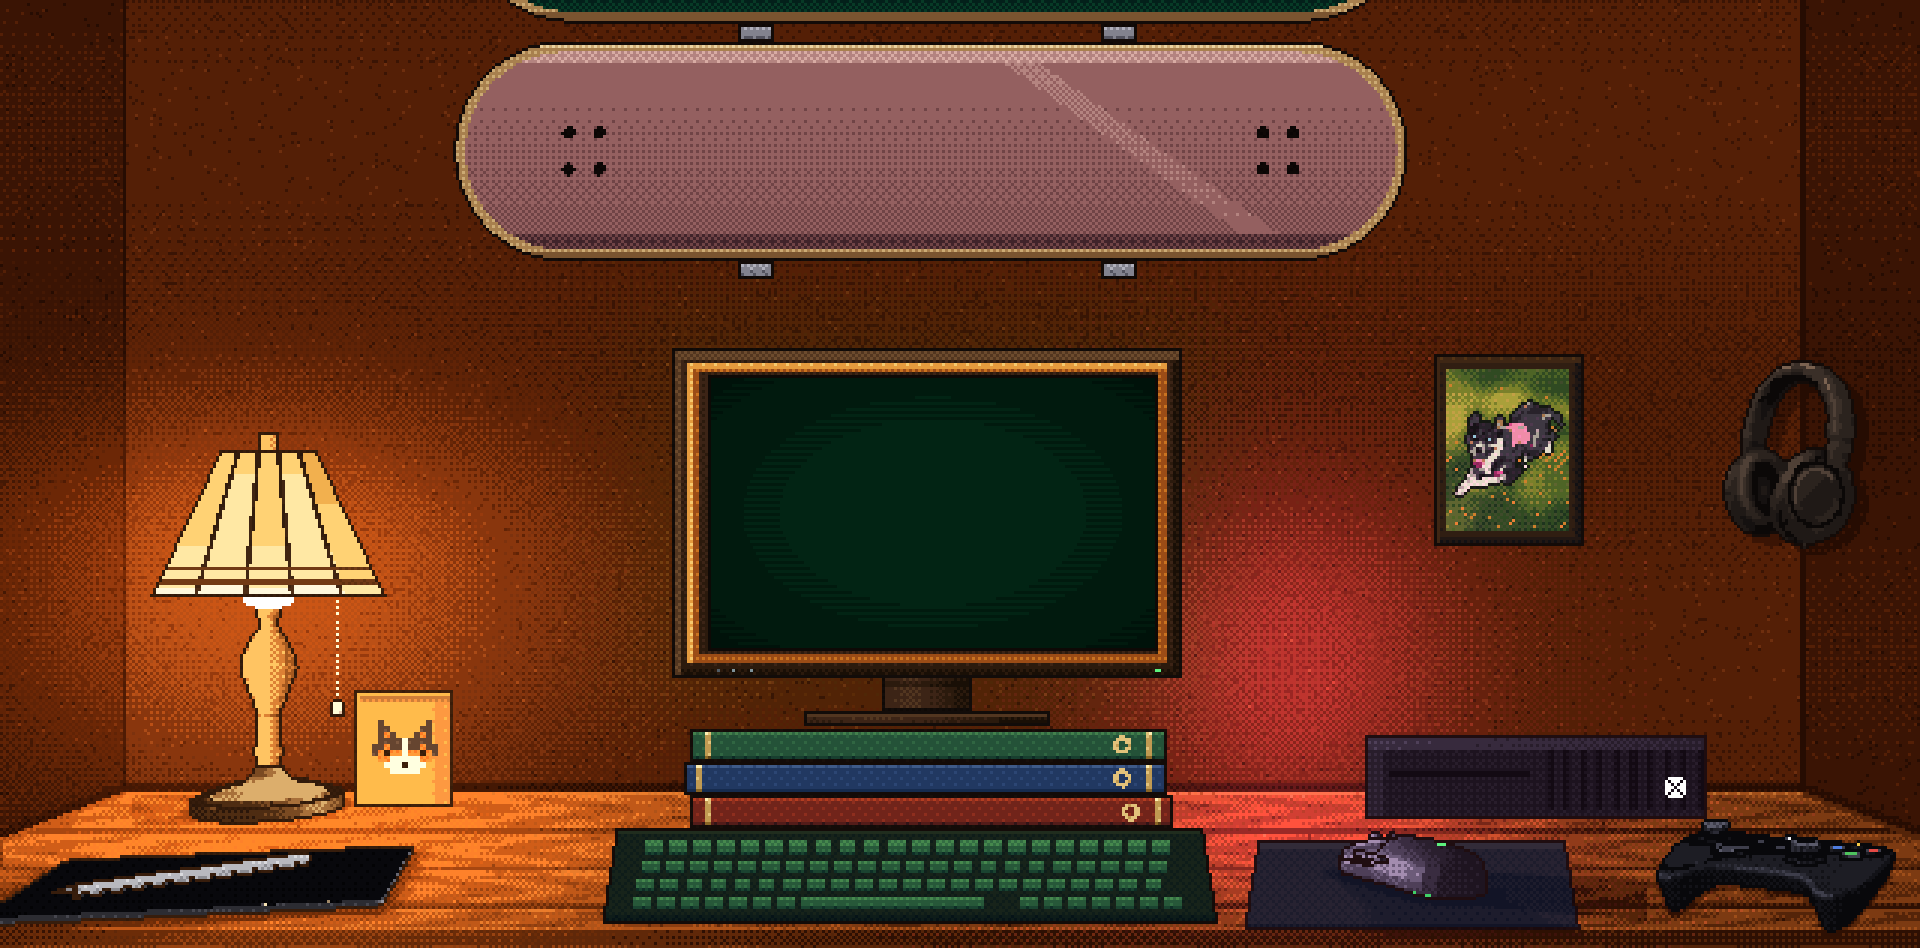
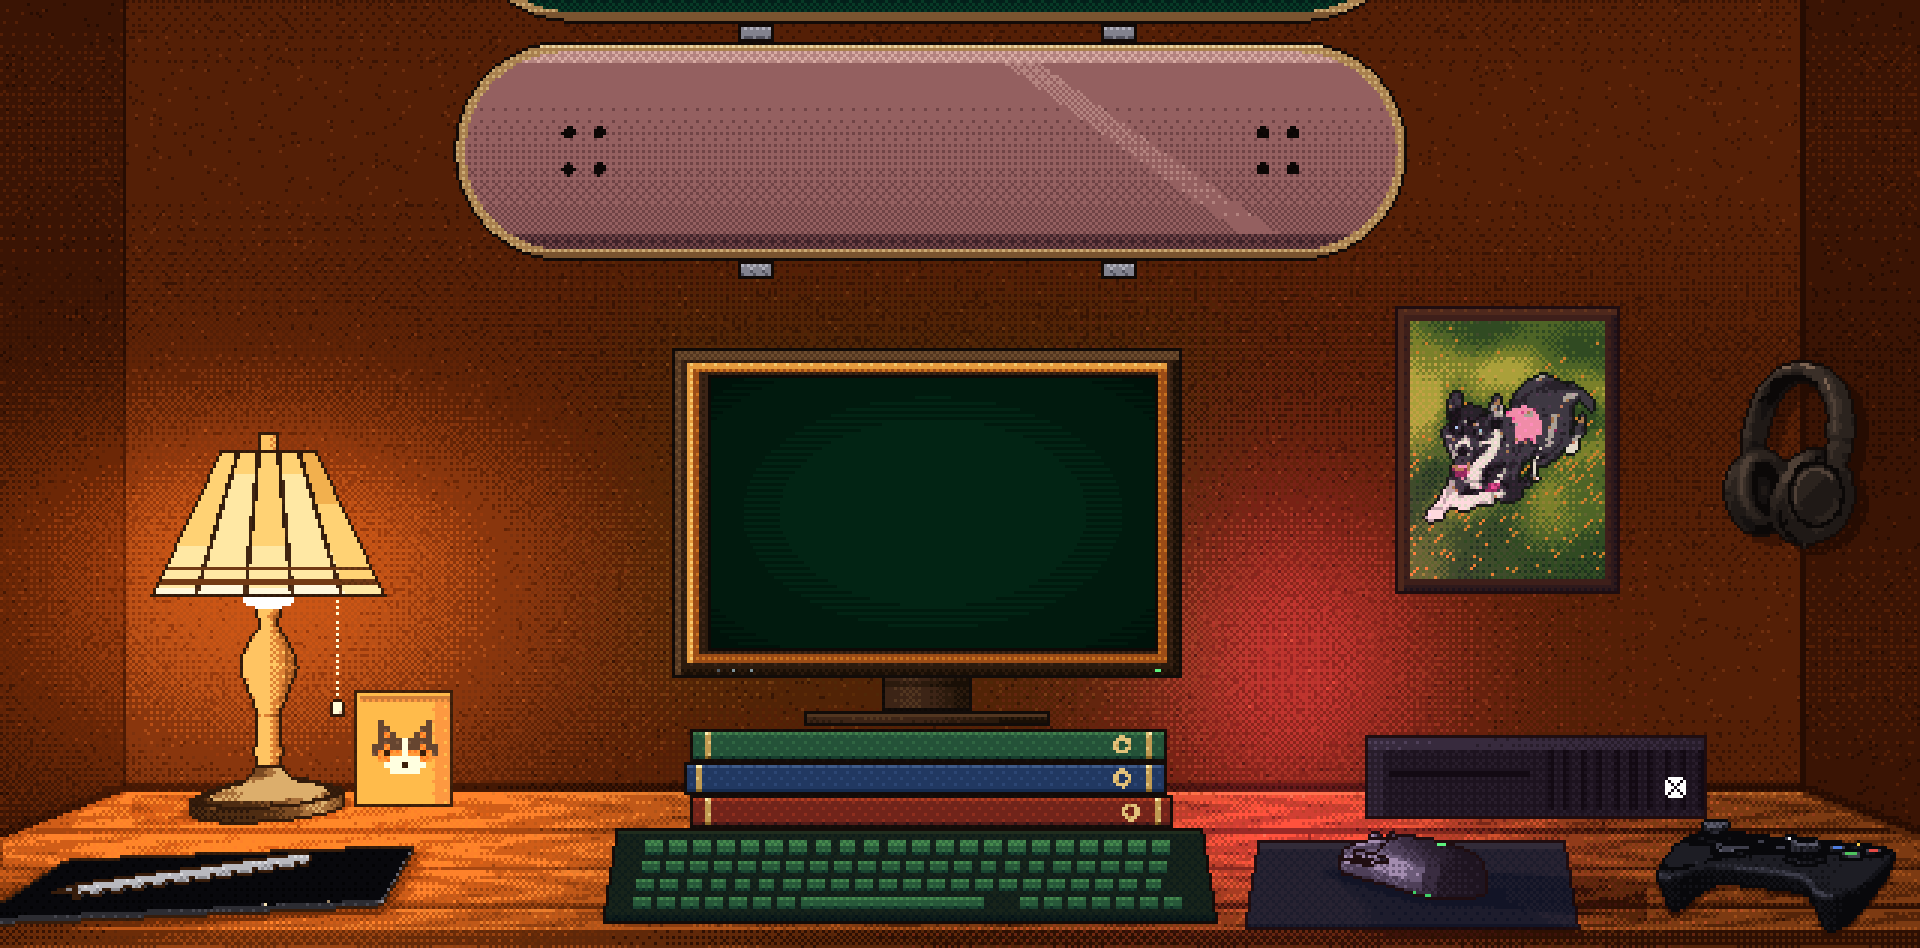
Phone view: bigger deck lettering, a bigger picture of Tessie, and notes you can read
On an upright phone the decks get their own lettering: the school over two
lines and the degree over two, the email along the top deck's low edge, all
bigger and clear of the bolt holes. Tessie hangs in a bigger frame, drawn again
at 65 x 86 so she gains detail instead of just stretching. The sticky notes hang
half again as big from the same spot, their words a touch bolder. Desktop is
unchanged.

Changed region(s): [[0.7188, 0.3059, 0.8438, 0.6424]]

diff --git a/scripts/wall-picture.js b/scripts/wall-picture.js
@@ -57,4 +57,93 @@ const ROWS = [
   'hggggggegeeceeeeeneeeeeeeeeeeneeeeeceence',
   'ggggggeeeecececeeeeeeecececececececececec',
 ];
-module.exports = { PALETTE, ROWS };
+// The same picture drawn at 65 x 86, for the phones' bigger frame.
+const PHONE_ROWS = [
+  'hghggggegegegegegeeegeeeeeeeeeeegegegggggggggggggggegegegegegggeg',
+  'ghggggegegeeegeeeeeeeeeeeeeeeeeeeeeeegegegegggegegegegeeegegegege',
+  'hghggggggegegngegegeeeeeeeeeeeeeeegegegggggggggggegegegegegegegeg',
+  'ghghggggegegeeeeeeeeeeeeeeeeeeeeeeegegegegegegegegegeeeeeeeeeeege',
+  'hhhghghggggggggegegegeeeeeeegegegegegggggggggggegegegegegegegegeg',
+  'ghghghggggggggegegeeeeeeeeeeegegegegggegggegegegegeeeeeeeeeeeeeee',
+  'hhhhhghghghggggngegegegegegegegggggggggggggggegegegeeeeeeegeeegee',
+  'ghhhgnghggggggggegegeeegeeegegggggggggggggggegegeeeeeeeeeeeeeenee',
+  'hhhhhhhhhhhghghggggggggegggggggghghghghghggggggegegegeeeeeeegeeeg',
+  'hhhhhhhhhhghghggggggggegggggghghghghghghghggggegegeeeeeeeeeeeeeee',
+  'hhnhhhhhhhhhhhhghghggghghghghnhhhhhhhhhhhghggggggegeeegeeeeeeegee',
+  'hhhhhhhhhhnhghhhghghggghghghhhhhhhhhhhhhghghggggegegeeeeeeeeeeeee',
+  'mhmhmhhhmhhhmhhhhhhhhhhhhhhhmhmhmmmhmhmhmhhghggggggngegegegegegeg',
+  'hmhhhhhhhhhhhhhhhhhhhhhhhmhmhmhmmmhmhmhmhhhhghggggngegegegegegege',
+  'mhmhmhmhmhmhmhmhmhmhhhmhmhmmmmmmmmmmmmmhmhhhhgnggggggggggggggegeg',
+  'hmhmhhhhhhhmhhhhhhhhhhhmhmmmmmmmmmmmmmhmhhhhgnghggggggggggggegege',
+  'mmmhmhmhmhmhmhmhmhmhmhmmmmmmmmmmmmmmmmmmmhmhhhhghghghghghghghgggg',
+  'mmhmhmhmhmhhhmhhhhhhhmhmmmmmmmmmmmmmmmhmhmhaaaggghggghghghggghggg',
+  'mmmmmmmmmhmhmhmhhhmhmhmmmmmmmmmmmmmmmmmhmaallfaanghghghhhnhhhghgh',
+  'mmmmhmhmhmhhhhhhghhhhhhnhmmmhmmmmmmmhmhaaflkffffaaghghghghghghghg',
+  'mmmmmmmmmmmhmhhhhhhhmhmhmmmmmmmmmmmmmhaffffffdddddaaaaahhhhhhhhhh',
+  'mmmmmmmmmmhhnhghghghhhhmhmhmhmhmhmhmhaffffffddddddddbdfaghhhhhhhh',
+  'mmmmmmmmmmmhhhhghnhhhhmhmhmhmhmhmhmhafffffdddfddddddddddaahhhhmhm',
+  'mmmmmmmmmmhhghaaagghghhhhhhhhhhhhhhaffffdfdfddffdfffffffffahgnhhh',
+  'mmmmmmmmmmmhhadfdahghhhhmhhhaahhmhadffddffffffffffffllllfffanhhhm',
+  'mmmmmmmmmmhhhaffdaggghghhhgaffahhhaffddffffffffffffllllfdfffahghh',
+  'mmmmmmmmmmmhafdffagggghghghafkahhadddddfffffffffffflkffdaffffahhh',
+  'mmmmmmmmmmhhafdffanaagggggafkkahgadddfdfffffffffffffffdaeafffaghg',
+  'mmmmmmmmmmmhakfddaaddaaaggallflahadfdqqfffffffffffkffdaegeaffaggh',
+  'mmmmmmmmmmhhafdbbdddddddaaflkflaafqqqqqqqiffdffffffffdaeeeeafaegg',
+  'mmmmmmmmmhhgabbbbdddddddaaafllpaoqqqqoqklqfffffffffffdaeeaeeaeggg',
+  'mmmmmmmmhhhhabbbbddddddbbbfflllfqqqqqqlllqqfddfllkfffdaeafaeeeege',
+  'mmmmmmmmmhhgabbbbddbddbdddfdfdffffoqqqqqqqqffffklfffffanakaeeegeg',
+  'mmmmmmhmhhggeabbdflbbbfddfdbbbbfffqqqqqqqqqqfffklffffdbakkaeneege',
+  'mmmmmhmhhghgabbbddfbbklddfdbbbdffdflqqqqqqqqfffllffdfdaaffaneegeg',
+  'hmhmhhhhghgafbbjfbdddffddddbbbdffffqqqqqqqqqffkllffffdbffdaeeeege',
+  'mmmhmhmhhgafdbbddbdddbdjddddplfffffqqqqqqqqqfflliffffaaffdaegggng',
+  'hmhhhhhhghaffdbdbbdddbflfdflppkffffqqqqqqqqqffllffddfaafffagggngg',
+  'mhmhnhhhhgafllfdddlfdddbdfffppldfffqqqqqqqffffllfffffdfllagggghgh',
+  'hhhhhhnhgggaffkfflplffdbdflpppfbfffkqqifoqfffllfffdfffllagggggghg',
+  'mhhhhhhghghaffffppppffflppppppdfffdqffkfdqffffllffdfffkpahhghhhhh',
+  'hhghghghgggaflfplffpffflfdfpppdflfffddffdddffllffdfffpppahghhhghh',
+  'hhhhhghgggggalfldbdfldfddfppplffffdfdfffffdpffffdffappppahhhhhhhh',
+  'ghghggggggggaflfbbbdfddddlpppfffkfdfdffffbddfffdffaapppaghhhghnhg',
+  'hnhghggggggggallbbblfdbflppplffffffdffffddffdddfddagaaahhhhhhnhhn',
+  'ggggggngegegealbfffffbfpppppffffffffffdfaapbbdffdagnghghhhghnhgng',
+  'ggnggegeeegegeaffdffddpppppfffdfffdffddaalddffdaaghghnhhhghnhghgh',
+  'enegeeeeceeeeeaffffkdpppppfddddbfdddfaaeapfffdaggnghnhgnggghgnggn',
+  'nggegeeeeeeeeakkqqqklppppfbdbbbddddfdaenapaaaaggnghghgnghghgngggg',
+  'egneeecececeeaikkkikppplfbbbdddlfdffdanabpagggggghnggngggggnggggg',
+  'gegeecececeeeadiiiiqppppdbddddflffffaneabpaggghghghghghgggggggggg',
+  'neeececececeeadiiiipppplbbbddppffdfdaeaaflagggghggghggnggnggnggge',
+  'geeeeeeceeeeafddfqflppplfbdddflfddfdaadaakpahghghghghnhgngggggggg',
+  'eeeececececeallffflllllfbbdfppbdddddbdbdaaagghghghghgggnggggggegg',
+  'eeeeececeegeallfffffppplddioiodbbddddddfaghghhhhhghghghgggggngggg',
+  'eececececeeallkfffdbllpqffiooifdbdddddaaegghghhhghnhgggggggngggge',
+  'eeeeeeeegeaplllkffbbbbddbiiiiflfdddddagghghhhhhhhnhghghghggghgggg',
+  'eecececeegapllppfbbbbddpppplpppldddddaegghghhnhhnhghggggggggnggng',
+  'eeeeeeeenalplpppllppppppppplkplfdddddagghnhhhhhhhhhghghgggggggngg',
+  'cececeegeaplppppppppppppppplaafddddaagggghghhhhhghghggggggnggnggg',
+  'eeeegeggapplppppppppppplllplagaaaaaegggnhhhhhhhhhhhnhghghngghggnh',
+  'eeeeegeappppplppppppplaaaaaaggegegegegggghghhhhhhhghggggggggggggg',
+  'eeeegeallllplaaappppaahghggggegegegegggghghhhhhhhghghghggggggghgg',
+  'ceeeeappppplahhnaaaaghggggegeeeeeeegegggghghghhhghghggggggggggggg',
+  'eegegapppppahhhghnhghggggggegegegegngggghghhhhhhhhhghghghgggggggh',
+  'eeeealpppppaghggnggnggegegeeeeeneengenggghghghghgnghghggggggggggg',
+  'eegegallaaagggggggnggegeneeeeeneeegegggghghhhghhhghghghgggggnggng',
+  'eeegegaaggggegegegegeeeneeeeceeeeeegegggggghghghghghgggggggnegege',
+  'gngegggngggggggegegngeeeeeeeeeeeeegegggghghghghghghghgggggnggggeg',
+  'ngegegngggegegeeeeneeeeeeecececeeneeegegggggghggnhggggngggegegeee',
+  'gegegegggggggegeeeeeeeeneeeeeeeeeegngegggghggghggghggggggegegenee',
+  'egegegegegngeeeeeeeecenecececececeneeeegegggggggggggegeneeeeeeeee',
+  'nggngggggngegegegeeeeeeeeeeeeeeeeeeegegegggggngggggngggegegegeeee',
+  'ggegggegngegegeeeeeeeeceeeceeeceneeeeeegegegegegegegeneeeeeeeecee',
+  'gngggggggggggegeeeeeeeeeeneeeeeeeeeeeegegegegegggegegegeeeeeeeeee',
+  'ggggegegegegegeeeeeecececececeeeceeeeeeneeegeeegeeegeeeeeeeececec',
+  'hggggggggggngegegeeeeeeeeeeeeeeeeeeeeeeegegegegngegegeeeeeeeeeeee',
+  'gnggggenegngeneeeeceeeceeeceeeeeeeeeeeeeeeeeeeeeeneeeeeeeececncen',
+  'gggggggggegenegeeeeeeneeeeeeeeeeeeeeeeeeeeeeeeeeneeeeeeeeneeecene',
+  'ggggggggegegeenececececnceeeceeeeeeecececececeeeceeececececececec',
+  'hggggggggggegeeeeeeeeeeeeeeeeeeeeeeeeeeeeeeeeeeeeeeeeeeeeeeceeece',
+  'ggggggggggegeeeeeececnceeeceeeeeeeeeeececenececeeecececececececec',
+  'ggnggngggegegeeeeceenceeeeeeeeeeneeneeeeeceeeeeeeeeeeceeeceeecnee',
+  'gnggggggegegeeeecececececeeeceeeeenecececececenececececececececec',
+  'nggghggggggegeeeeeeceeeeeeeneeeeeeeeeeeeeeeeeeeeeeeeeeeceeeceeece',
+  'ggggggggngegeeeececececececeeeeeeeeeeecececececececececececececec',
+];
+module.exports = { PALETTE, ROWS, PHONE_ROWS };

diff --git a/components/cinema/CinemaScene.tsx b/components/cinema/CinemaScene.tsx
@@ -220,6 +220,26 @@ interface DeckPlace {
   dy: number;
 }
 const DECKS_AS_DRAWN: DeckPlace = { scale: 1, anchor: [0, 0], dy: 0 };
+/**
+ * The decks' words on an upright phone, where the room is small: bigger, the school's name over two lines so each
+ * half can grow, the small print bold. Placed on the decks as drawn on desktop (art px); the phones' bigger, higher
+ * decks carry them along (DeckPlace).
+ */
+const PHONE_DECK_TEXT: WallText[] = [
+  // the top deck: the name, the place between the rows of bolt holes, the email along the deck's wider low edge
+  { lines: ["CHRISTOPHER E LUNA"], x: 937, y: 46, size: 36, color: NAME_GOLD, weight: 700, track: 0.06 },
+  { lines: ["ORANGE COUNTY, CA"], x: 937, y: 78, size: 20, color: "#e9b468", weight: 700, track: 0.08 },
+  { lines: ["LUNA_CHRISTOPHER98@HOTMAIL.COM"], x: 937, y: 117, size: 27, color: "#e9b468", weight: 600, track: 0.03 },
+  // the low deck: the school over two lines, then the degree over two, short enough to sit between the holes
+  { lines: [[{ text: "CALIFORNIA STATE UNIVERSITY,", color: CSU_BURGUNDY }]], x: 933, y: 198, size: 24, color: CSU_BURGUNDY, weight: 700, track: 0.05 },
+  { lines: [[{ text: "DOMINGUEZ HILLS", color: DH_GOLD }]], x: 933, y: 224, size: 24, color: DH_GOLD, weight: 700, track: 0.06 },
+  { lines: ["BACHELOR OF SCIENCE"], x: 933, y: 251, size: 20, color: NAME_GOLD, weight: 700, track: 0.06, edged: true },
+  { lines: ["COMPUTER SCIENCE"], x: 933, y: 273, size: 20, color: NAME_GOLD, weight: 700, track: 0.06, edged: true },
+  { lines: ["FIRST GEN"], x: 933, y: 295, size: 16, color: NAME_GOLD, weight: 700, track: 0.1, edged: true },
+];
+/** The spines' words, the same on every screen. */
+const SPINE_TEXT = (): WallText[] => WALL_TEXT.filter((t) => t.y >= DECK_TEXT_BELOW);
+
 const wallTextStyle = (t: WallText, deck: DeckPlace = DECKS_AS_DRAWN): CSSProperties => {
   // the words on the decks follow them (on phones, bigger and higher); the spines' stay put
   const d = t.y < DECK_TEXT_BELOW ? deck : DECKS_AS_DRAWN;
@@ -508,6 +528,11 @@ function walkPath(u: number, rising: boolean, vw: number, vh: number): { p: numb
   const dy = Math.sin(Math.PI * s) ** 2 * 0.03 * vh - bob;
   return { p, cam: { dy, dx, zoom: 1 + Math.max((Math.abs(dy) * 2.1) / vh, (Math.abs(dx) * 2.1) / vw) } };
 }
+
+/** How much bigger the sticky notes hang on an upright phone. */
+const PHONE_NOTE_SCALE = 1.5;
+/** A box grown `k` times about the middle of its top edge (it stays pinned where it hangs). */
+const growFromTop = (r: PctBox, k: number): PctBox => ({ left: r.left + (r.width * (1 - k)) / 2, top: r.top, width: r.width * k, height: r.height * k });
 
 const pctBox = (r: PctBox): CSSProperties => ({
   left: `${r.left}%`,
@@ -955,11 +980,14 @@ export default function CinemaScene() {
     `cinema--${pose}`,
     ready && loaded ? "cinema--ready" : "",
     lampOn ? "" : "cinema--lamp-off",
+    phone ? "cinema--phone" : "",
   ]
     .filter(Boolean)
     .join(" ");
   const spill = art.props.mug?.spill;
   const note = art.props.note;
+  // upright, the notes hang half again as big from the same top edge, so their words read on a small screen
+  const noteBox = note ? (phone ? growFromTop(note.boxPct, PHONE_NOTE_SCALE) : note.boxPct) : null;
   const camStyle: CSSProperties | undefined =
     cam === CAM_REST
       ? undefined
@@ -1042,7 +1070,7 @@ export default function CinemaScene() {
           )}
 
           {/* The words on the decks and the book spines */}
-          {WALL_TEXT.map((t) => (
+          {(phone ? [...PHONE_DECK_TEXT, ...SPINE_TEXT()] : WALL_TEXT).map((t) => (
             <p
               key={t.lines.map((l) => (typeof l === "string" ? l : l.map((r) => r.text).join(""))).join(" ")}
               className={`cinema__wall-text${t.edged ? " cinema__wall-gold" : ""}${t.y > 500 ? " cinema__wall-text--desk" : ""}`}
@@ -1067,7 +1095,7 @@ export default function CinemaScene() {
             <>
               <div
                 className="cinema__sprite cinema__sprite--note cinema__note-under"
-                style={pctBox(note.boxPct)}
+                style={pctBox(noteBox ?? note.boxPct)}
                 aria-hidden="true"
               >
                 <NoteFace index={noteIndex + 1} />
@@ -1076,7 +1104,7 @@ export default function CinemaScene() {
                 key={`note-${noteIndex}`}
                 type="button"
                 className="cinema__sprite cinema__sprite--note"
-                style={pctBox(note.boxPct)}
+                style={pctBox(noteBox ?? note.boxPct)}
                 onClick={peelNote}
                 tabIndex={standingTab}
                 aria-label={SPRITE_LABEL.note}
@@ -1092,7 +1120,7 @@ export default function CinemaScene() {
                     else noteRefs.current.delete(id);
                   }}
                   className="cinema__sprite cinema__sprite--note cinema__note-falling"
-                  style={{ ...pctBox(note.boxPct), transformOrigin: "50% 3%" }}
+                  style={{ ...pctBox(noteBox ?? note.boxPct), transformOrigin: "50% 3%" }}
                   aria-hidden="true"
                 >
                   <NoteFace index={index} />

diff --git a/scripts/desk-room.js b/scripts/desk-room.js
@@ -559,13 +559,17 @@ function drawRoom(theme, on, lavaOn = true, opt = {}) {
   deck(145, 42, 303, 78.5, 'deckB', 175);
 
   // ------------------------------------------------ the poster
-  shape([344, 85, 380, 131], rect(344, 85, 380, 131), 'frame', (x, y) => (x < 346 || y < 87 ? 0.8 : x > 378 || y > 129 ? 0.2 : 0.5));
-  // Tessie (scripts/wall-picture.js), one pixel a pixel in the frame. Each colour has its own ramp with that colour as
-  // its middle step and a shade that lands on it in the lamp's light (lit by the room without dither, emit 3), so with
-  // the lamp off she drops a step darker and cooler under the room's night, as the moon-and-hills picture there did.
+  // Tessie (scripts/wall-picture.js), one pixel a pixel in the frame, the frame round her; the phones' room hangs her
+  // bigger (her 65 x 86 drawing), about the same middle. Each colour has its own ramp with that colour as its middle
+  // step and a shade that lands on it in the lamp's light (lit by the room without dither, emit 3), so with the lamp
+  // off she drops a step darker and cooler under the room's night, as the moon-and-hills picture there did.
   {
-    const FX = pxX(347.4), FY = px(88.4), s = (2 + 0.25 - theme.ambient) / 4;
-    WALL_PICTURE.ROWS.forEach((row, r) => [...row].forEach((k, c) => put(FX + c, FY + r, `wall${k}`, s, 3)));
+    const rows = PHONE ? WALL_PICTURE.PHONE_ROWS : WALL_PICTURE.ROWS, PW = rows[0].length, PHT = rows.length;
+    const FX = PHONE ? pxX(362) - Math.round(PW / 2) : pxX(347.4), FY = PHONE ? px(108) - Math.round(PHT / 2) : px(88.4);
+    const [fx0, fy0, fx1, fy1] = PHONE ? [(FX - OX) / K - 3.4, FY / K - 3.4, (FX - OX + PW) / K + 3.4, (FY + PHT) / K + 3.4] : [344, 85, 380, 131];
+    shape([fx0, fy0, fx1, fy1], rect(fx0, fy0, fx1, fy1), 'frame', (x, y) => (x < fx0 + 2 || y < fy0 + 2 ? 0.8 : x > fx1 - 2 || y > fy1 - 2 ? 0.2 : 0.5));
+    const s = (2 + 0.25 - theme.ambient) / 4;
+    rows.forEach((row, r) => [...row].forEach((k, c) => put(FX + c, FY + r, `wall${k}`, s, 3)));
   }
 
   // ------------------------------------------------ the headset, on a hook on the right side wall

diff --git a/components/cinema/cinema.css b/components/cinema/cinema.css
@@ -260,6 +260,13 @@
   pointer-events: none;
 }
 
+/* on an upright phone the notes hang bigger; their words go a touch bolder and darker to read on a small screen */
+.cinema--phone .cinema__note-text {
+  font-weight: 700;
+  color: #1c0b04;
+  letter-spacing: 0.03em;
+}
+
 /* a note that draws a little tree: five lines, packed tighter and sat up the paper, clear of the folded corner */
 .cinema__note-text--tree {
   justify-content: flex-start;

diff --git a/scripts/wall-picture.py b/scripts/wall-picture.py
@@ -1,6 +1,7 @@
 """
 The picture in the frame on the wall: Tessie, from a photo (scripts/art/tessie.png), drawn as pixel art at the frame's
-own size (41 x 54 room pixels). Writes scripts/wall-picture.js, which scripts/desk-room.js draws into the frame; then
+own size (41 x 54 room pixels). Writes scripts/wall-picture.js (41 x 54 for desktop and 65 x 86 for the phones' bigger frame), which
+scripts/desk-room.js draws into the frame; then
 run `node scripts/pixel-room.js` to rebuild the room images.
 
   * she is cut out of the lawn by colour (grass is green-yellow and saturated, she is black, white, tan and pink) and
@@ -16,7 +17,8 @@ from PIL import Image, ImageFilter, ImageDraw
 
 HERE = os.path.dirname(os.path.abspath(__file__))
 SRC, OUT = os.path.join(HERE, 'art', 'tessie.png'), os.path.join(HERE, 'wall-picture.js')
-W, H = 41, 54
+W, H = 41, 54  # the frame's inside on desktop, room pixels
+PW, PH = 65, 86  # on phones, where the picture hangs bigger
 x0, y0, x1, y1 = 38, 50, 576, 759  # the crop: all of her, with grass round every side (tessie.png is cut from the photo at 400, 450)
 
 GRASS = [(30, 52, 30), (48, 74, 34), (78, 100, 38), (122, 128, 42), (170, 160, 58)]
@@ -36,47 +38,53 @@ img = np.asarray(full.crop((x0, y0, x1, y1))).astype(float)
 lawn = np.asarray(full.crop((x0, y0, x1, y1)).filter(ImageFilter.GaussianBlur(28))).astype(float)
 petals = ((hue >= 20) & (hue <= 45) & (sat > 150))[y0:y1, x0:x1]
 pinkish = ((hue > 300) | (hue < 10))[y0:y1, x0:x1]
-cw, ch = img.shape[1] / W, img.shape[0] / H
+def draw(W, H):
+    cw, ch = img.shape[1] / W, img.shape[0] / H
 
-def ramp_pick(ramp, t, x, y):
-    f = t * (len(ramp) - 1); i = int(f)
-    if i >= len(ramp) - 1: return ramp[-1]
-    return ramp[i + 1] if f - i > (BAYER[y % 4][x % 4] + 0.5) / 16 else ramp[i]
+    def ramp_pick(ramp, t, x, y):
+        f = t * (len(ramp) - 1); i = int(f)
+        if i >= len(ramp) - 1: return ramp[-1]
+        return ramp[i + 1] if f - i > (BAYER[y % 4][x % 4] + 0.5) / 16 else ramp[i]
 
-names = [n for n in DOG if n != 'eye']
-pal = np.array([DOG[n] for n in names], float)
-grid = [[None] * W for _ in range(H)]
-isdog = np.zeros((H, W), bool)
-for y in range(H):
-    for x in range(W):
-        a, b, c, d = int(x * cw), int((x + 1) * cw), int(y * ch), int((y + 1) * ch)
-        dm = dog[c:d, a:b]
-        if dm.mean() > 0.45:
-            isdog[y, x] = True
-            col = np.median(img[c:d, a:b][dm], axis=0)
-            col = col * 0.82 if col.mean() < 120 else col * 1.05  # black fur stays black in the sun, white stays white
-            name = names[int(np.argmin(((pal - col) ** 2).sum(1)))]
-            if name in ('w0', 'w1') and pinkish[c:d, a:b].mean() > 0.35: name = 'p2'  # the harness's light specks
-            grid[y][x] = DOG[name]
-        else:
-            lum = (lawn[c:d, a:b].mean(axis=(0, 1)) * [0.3, 0.59, 0.11]).sum()
-            t = float(np.clip((lum - 40) / 120, 0, 1))
-            grid[y][x] = PETAL if petals[c:d, a:b].mean() > 0.42 and (x * 7 + y * 13) % 3 == 0 else ramp_pick(GRASS, t, x, y)
-for y in range(H):
-    for x in range(W):
-        if not isdog[y, x] and any(0 <= y + dy < H and 0 <= x + dx < W and isdog[y + dy, x + dx] for dx, dy in ((1, 0), (-1, 0), (0, 1), (0, -1))):
-            grid[y][x] = OUTLINE
-for X, Y, col in ((168, 342, DOG['eye']), (232, 355, DOG['eye']), (182, 403, DOG['k0'])):
-    grid[int((Y - y0) / ch)][int((X - x0) / cw)] = col
+    names = [n for n in DOG if n != 'eye']
+    pal = np.array([DOG[n] for n in names], float)
+    grid = [[None] * W for _ in range(H)]
+    isdog = np.zeros((H, W), bool)
+    for y in range(H):
+        for x in range(W):
+            a, b, c, d = int(x * cw), int((x + 1) * cw), int(y * ch), int((y + 1) * ch)
+            dm = dog[c:d, a:b]
+            if dm.mean() > 0.45:
+                isdog[y, x] = True
+                col = np.median(img[c:d, a:b][dm], axis=0)
+                col = col * 0.82 if col.mean() < 120 else col * 1.05  # black fur stays black in the sun, white stays white
+                name = names[int(np.argmin(((pal - col) ** 2).sum(1)))]
+                if name in ('w0', 'w1') and pinkish[c:d, a:b].mean() > 0.35: name = 'p2'  # the harness's light specks
+                grid[y][x] = DOG[name]
+            else:
+                lum = (lawn[c:d, a:b].mean(axis=(0, 1)) * [0.3, 0.59, 0.11]).sum()
+                t = float(np.clip((lum - 40) / 120, 0, 1))
+                grid[y][x] = PETAL if petals[c:d, a:b].mean() > 0.42 and (x * 7 + y * 13) % 3 == 0 else ramp_pick(GRASS, t, x, y)
+    for y in range(H):
+        for x in range(W):
+            if not isdog[y, x] and any(0 <= y + dy < H and 0 <= x + dx < W and isdog[y + dy, x + dx] for dx, dy in ((1, 0), (-1, 0), (0, 1), (0, -1))):
+                grid[y][x] = OUTLINE
+    for X, Y, col in ((168, 342, DOG['eye']), (232, 355, DOG['eye']), (182, 403, DOG['k0'])):
+        grid[int((Y - y0) / ch)][int((X - x0) / cw)] = col
+    return grid
 
-colours = sorted({c for row in grid for c in row})
+grid, phone = draw(W, H), draw(PW, PH)
+colours = sorted({c for g in (grid, phone) for row in g for c in row})
 KEYS = 'abcdefghijklmnopqrstuvwxyzABCDEFGHIJKLMNOPQRSTUVWXYZ'
 hexes = ['#%02x%02x%02x' % c for c in colours]
 rows = [''.join(KEYS[colours.index(c)] for c in row) for row in grid]
+phone_rows = [''.join(KEYS[colours.index(c)] for c in row) for row in phone]
 with open(OUT, 'w') as f:
     f.write('// Generated by scripts/wall-picture.py from scripts/art/tessie.png: Tessie, the picture in the frame on the wall.\n')
     f.write('// One letter a room pixel, ' + str(W) + ' x ' + str(H) + '; each letter is a colour in PALETTE (how she looks with the lamp on).\n')
     f.write('const PALETTE = ' + repr(hexes).replace("'", "'") + ';\n')
     f.write('const ROWS = [\n' + ''.join("  '" + r + "',\n" for r in rows) + '];\n')
-    f.write('module.exports = { PALETTE, ROWS };\n')
+    f.write('// The same picture drawn at ' + str(PW) + ' x ' + str(PH) + ', for the phones\' bigger frame.\n')
+    f.write('const PHONE_ROWS = [\n' + ''.join("  '" + r + "',\n" for r in phone_rows) + '];\n')
+    f.write('module.exports = { PALETTE, ROWS, PHONE_ROWS };\n')
 print('wrote', OUT, len(colours), 'colours')
